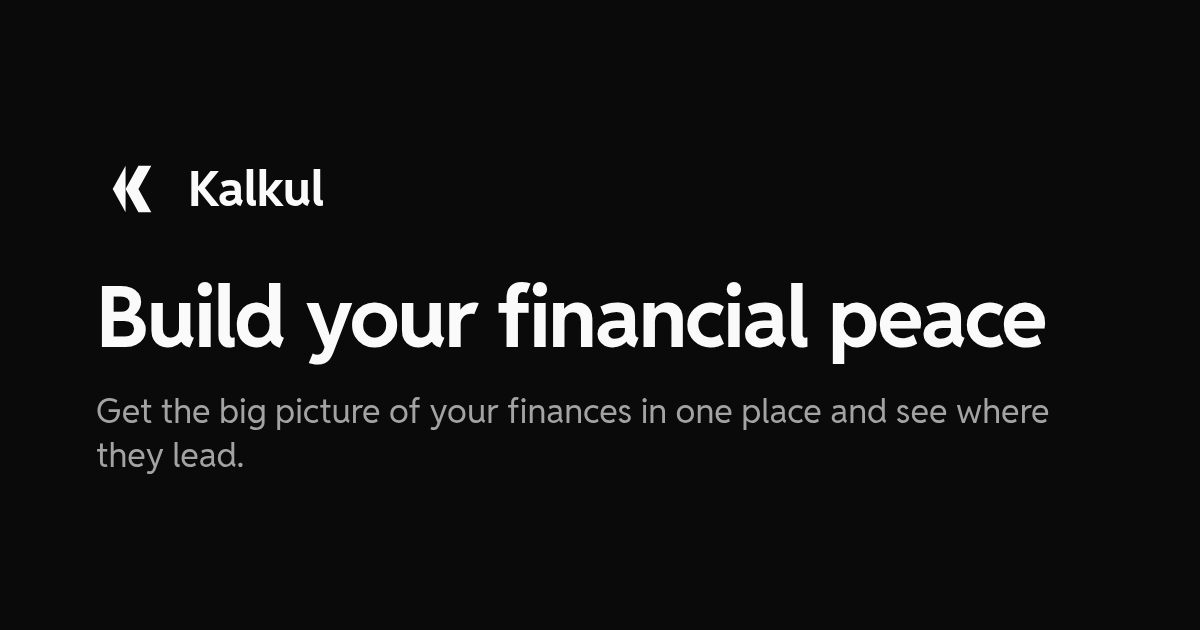
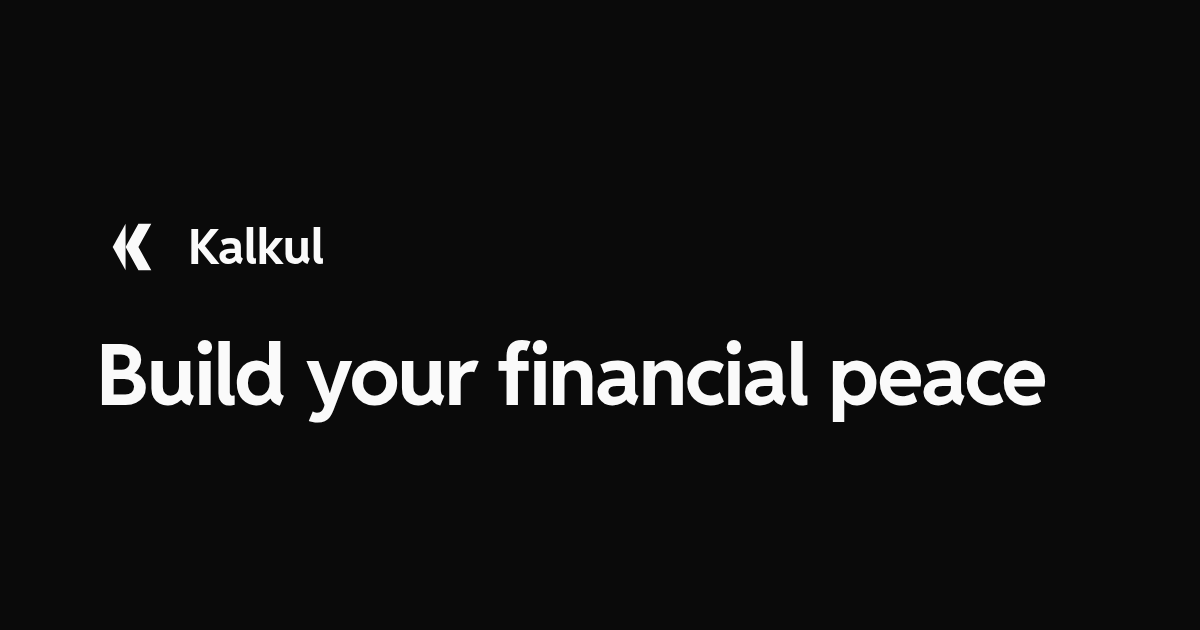
feat: preview image shows only the tagline in the app's white on black

diff --git a/src/app.html b/src/app.html
@@ -9,13 +9,13 @@
     <title>Kalkul</title>
     <meta
       name="description"
-      content="Build your financial peace. Get the big picture of your finances in one place and see where they lead."
+      content="Get the big picture of your finances in one place and see where they lead."
     />
     <!-- Link preview for chats and social sites, which read this static head
          and never run the app. The absolute URLs are needed by the crawlers. -->
     <meta property="og:type" content="website" />
     <meta property="og:site_name" content="Kalkul" />
-    <meta property="og:title" content="Kalkul - Build your financial peace" />
+    <meta property="og:title" content="Build your financial peace" />
     <meta
       property="og:description"
       content="Get the big picture of your finances in one place and see where they lead."
